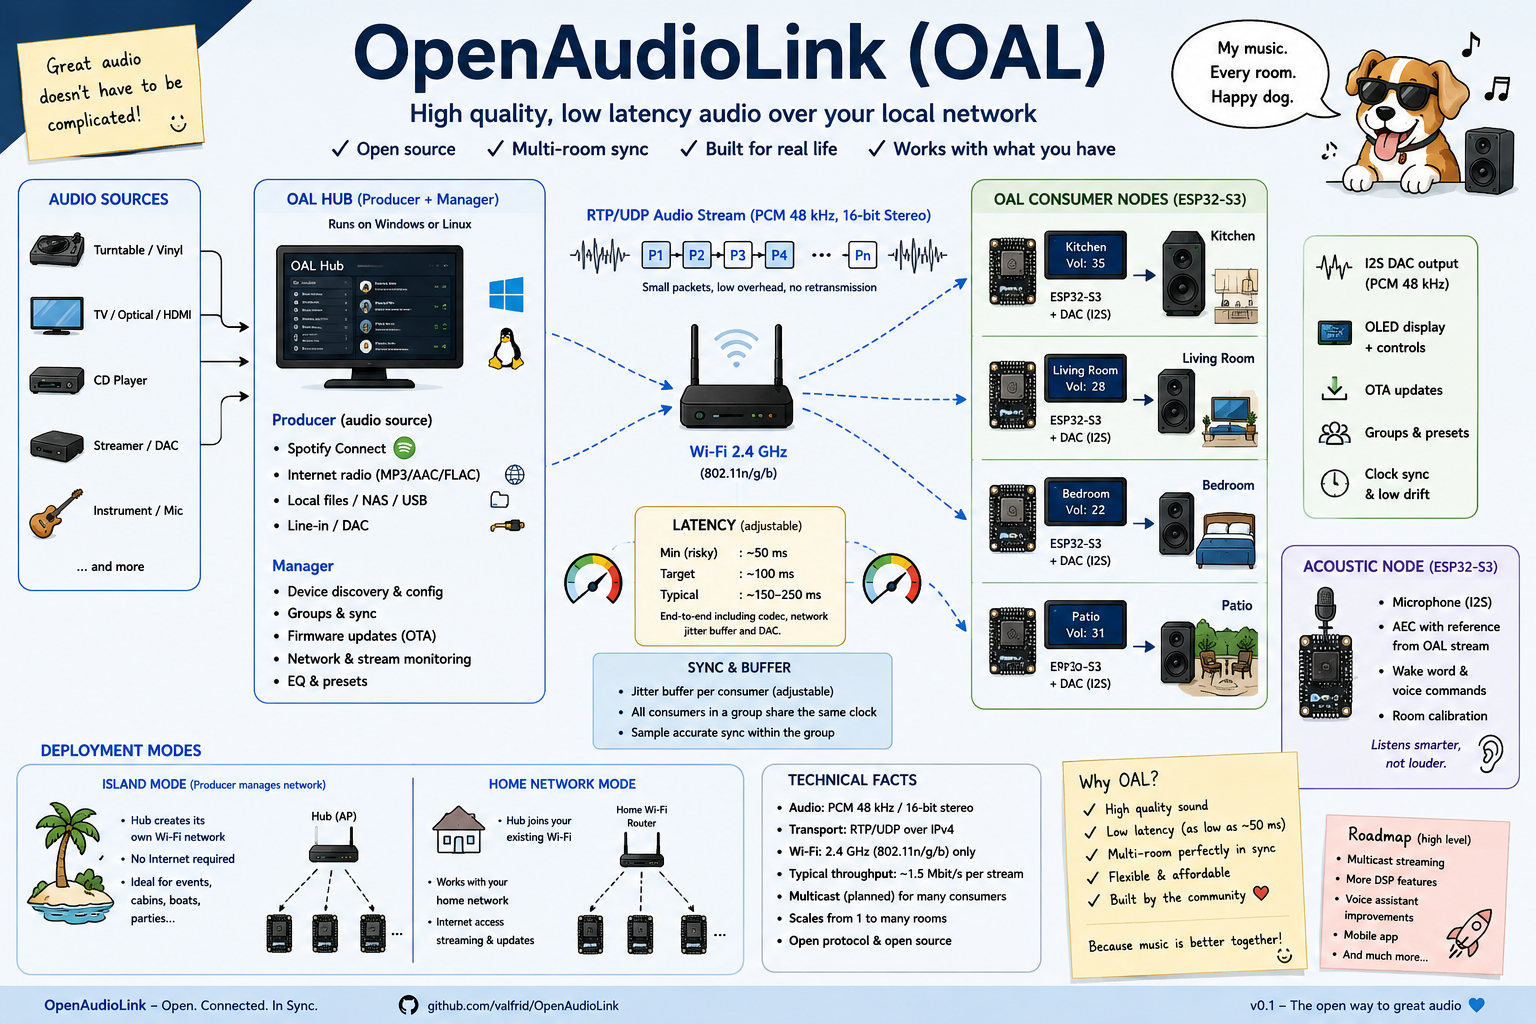
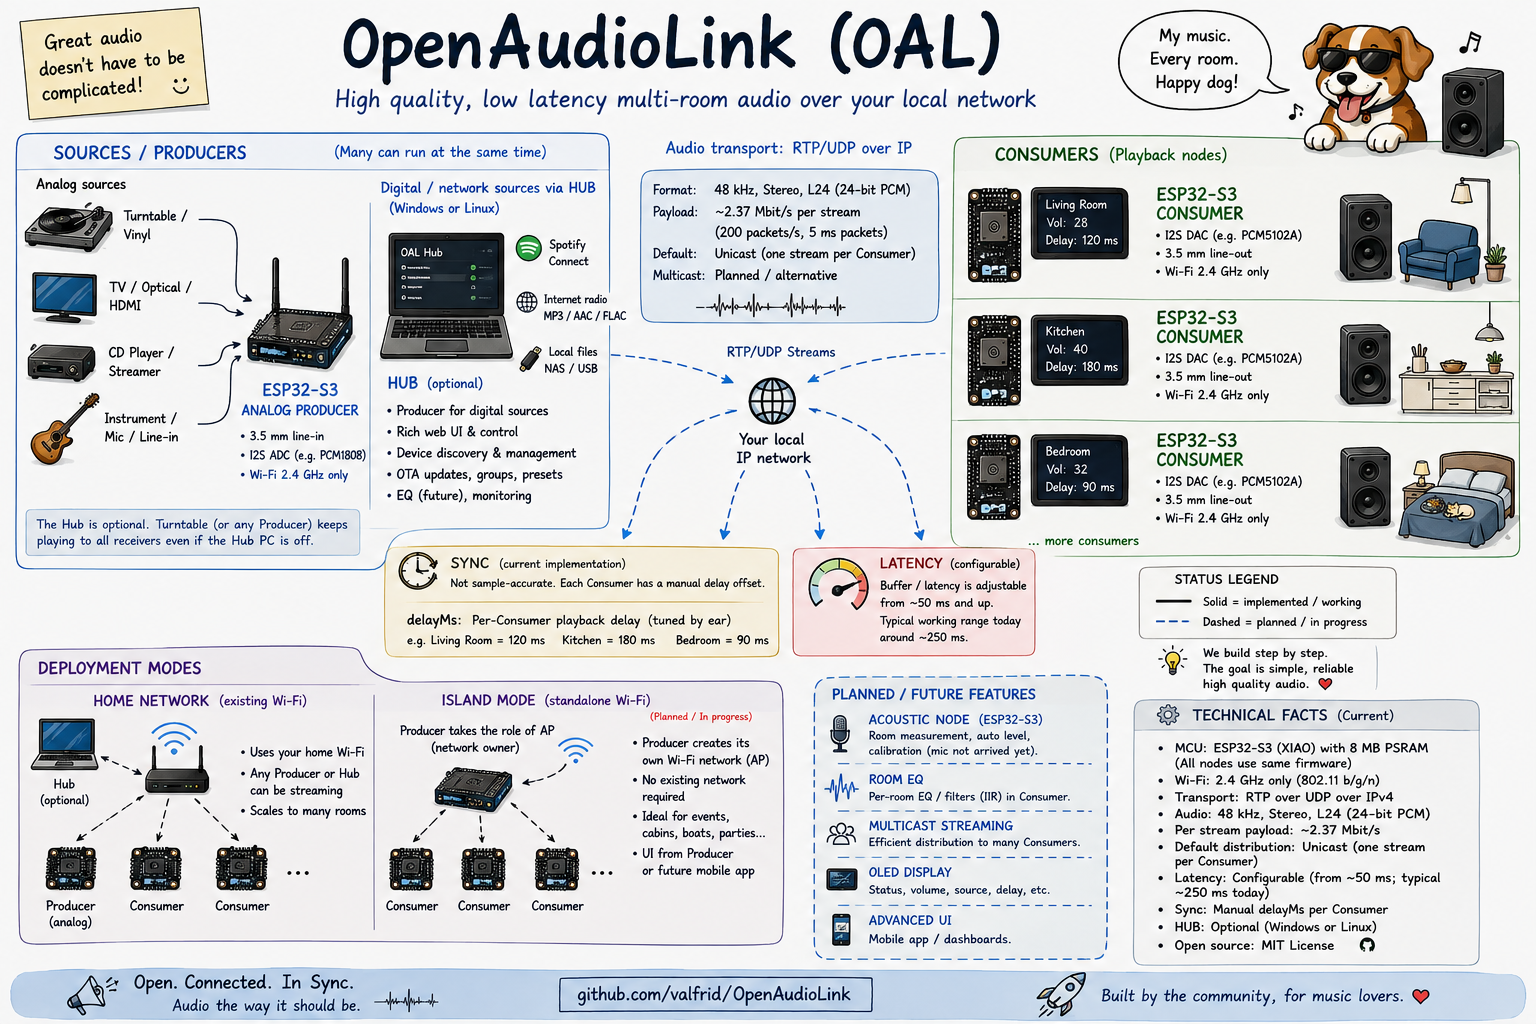
Replace the overview poster with the corrected one
The two wrong figures are gone: audio reads L24 24-bit and ~2.37 Mbit/s per
stream, which is exact rather than approximately right -- 2.304 Mbit/s of
payload plus RTP, UDP and IPv4 headers at 200 packets a second comes to
2.368.

More valuable than the corrections is what the new one admits. Sync is
labelled "not sample-accurate, each Consumer has a manual delay offset,
tuned by ear", which is exactly what it is; the previous version claimed
sample-accurate sync and a shared clock, neither of which exists. Island
mode is marked in progress, the acoustic node says the microphone has not
arrived, and a status legend separates solid from dashed throughout, so the
poster now carries its own planned-versus-built distinction instead of
needing one bolted on underneath.

So the README note shrank to the two things still worth saying. The poster
does not show that a Consumer can drive a USB-C audio dongle instead of an
I2S DAC, which is implemented and in daily use. And its ~250 ms latency is
right for a default node, where the settings actually running here are
nearer 320 ms -- the deeper buffer that bought a 59x reduction in late
audio, which is a trade worth pointing at rather than papering over.

Claude-Session: https://claude.ai/code/session_013Ep1dr3eARSjFWME619s7Y

diff --git a/README.md b/README.md
@@ -2,12 +2,11 @@
 
 ![OpenAudioLink at a glance](docs/overview.png)
 
-> The poster is the shape of the project rather than a specification. Some
-> of it is built and measured; some is intended. The acoustic node, the
-> OLED, EQ and multicast are not written, and consumers are aligned by hand
-> rather than by a shared clock. Two figures on it are simply wrong: audio
-> on the wire is **L24, 24-bit**, about **2.3 Mbit/s** per stream.
-> "Where it is now", below, is the version to trust.
+> Solid lines are working; dashed are planned. Two things it does not
+> show: a Consumer can also drive a **USB-C audio dongle** instead of an
+> I²S DAC (`docs/USB-AUDIO.md`), and the ~250 ms latency is the figure for
+> a default node — the settings in use here run nearer 320 ms, because a
+> deeper buffer bought a 59× reduction in late audio (`docs/TUNING.md`).
 
 A local-first, open-source multi-room audio platform. It distributes
 synchronised stereo audio over an ordinary IP network using inexpensive
